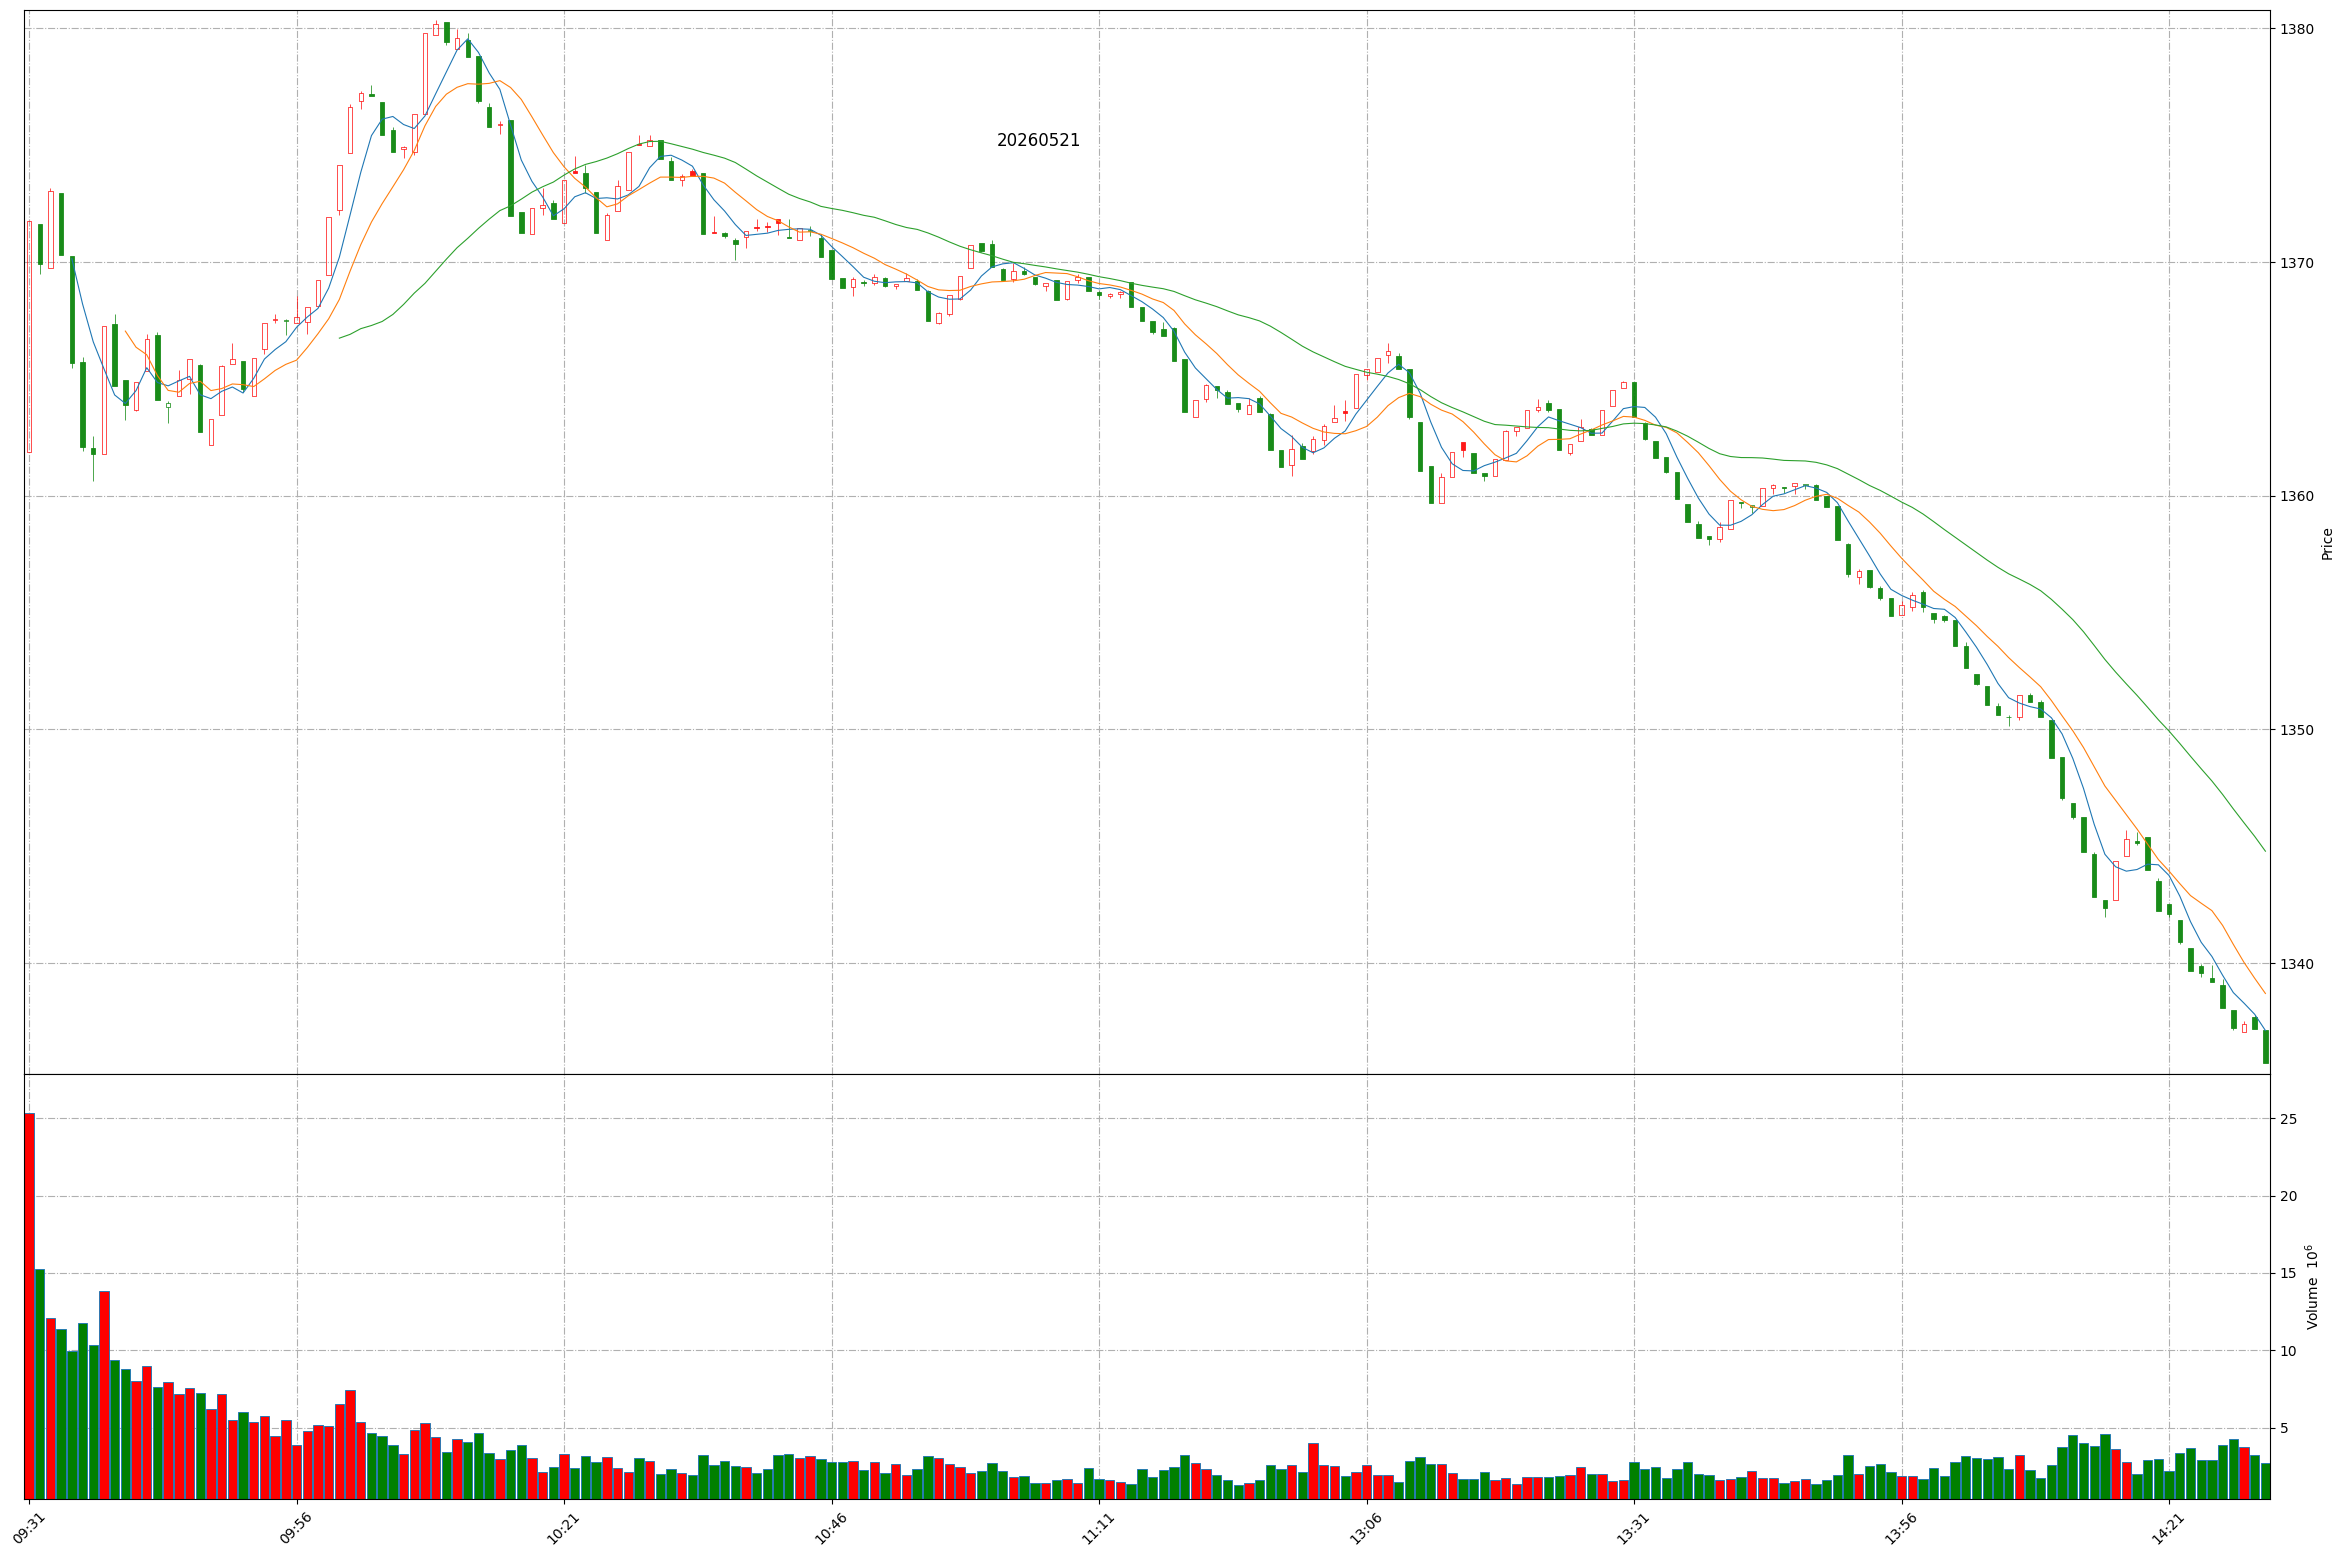
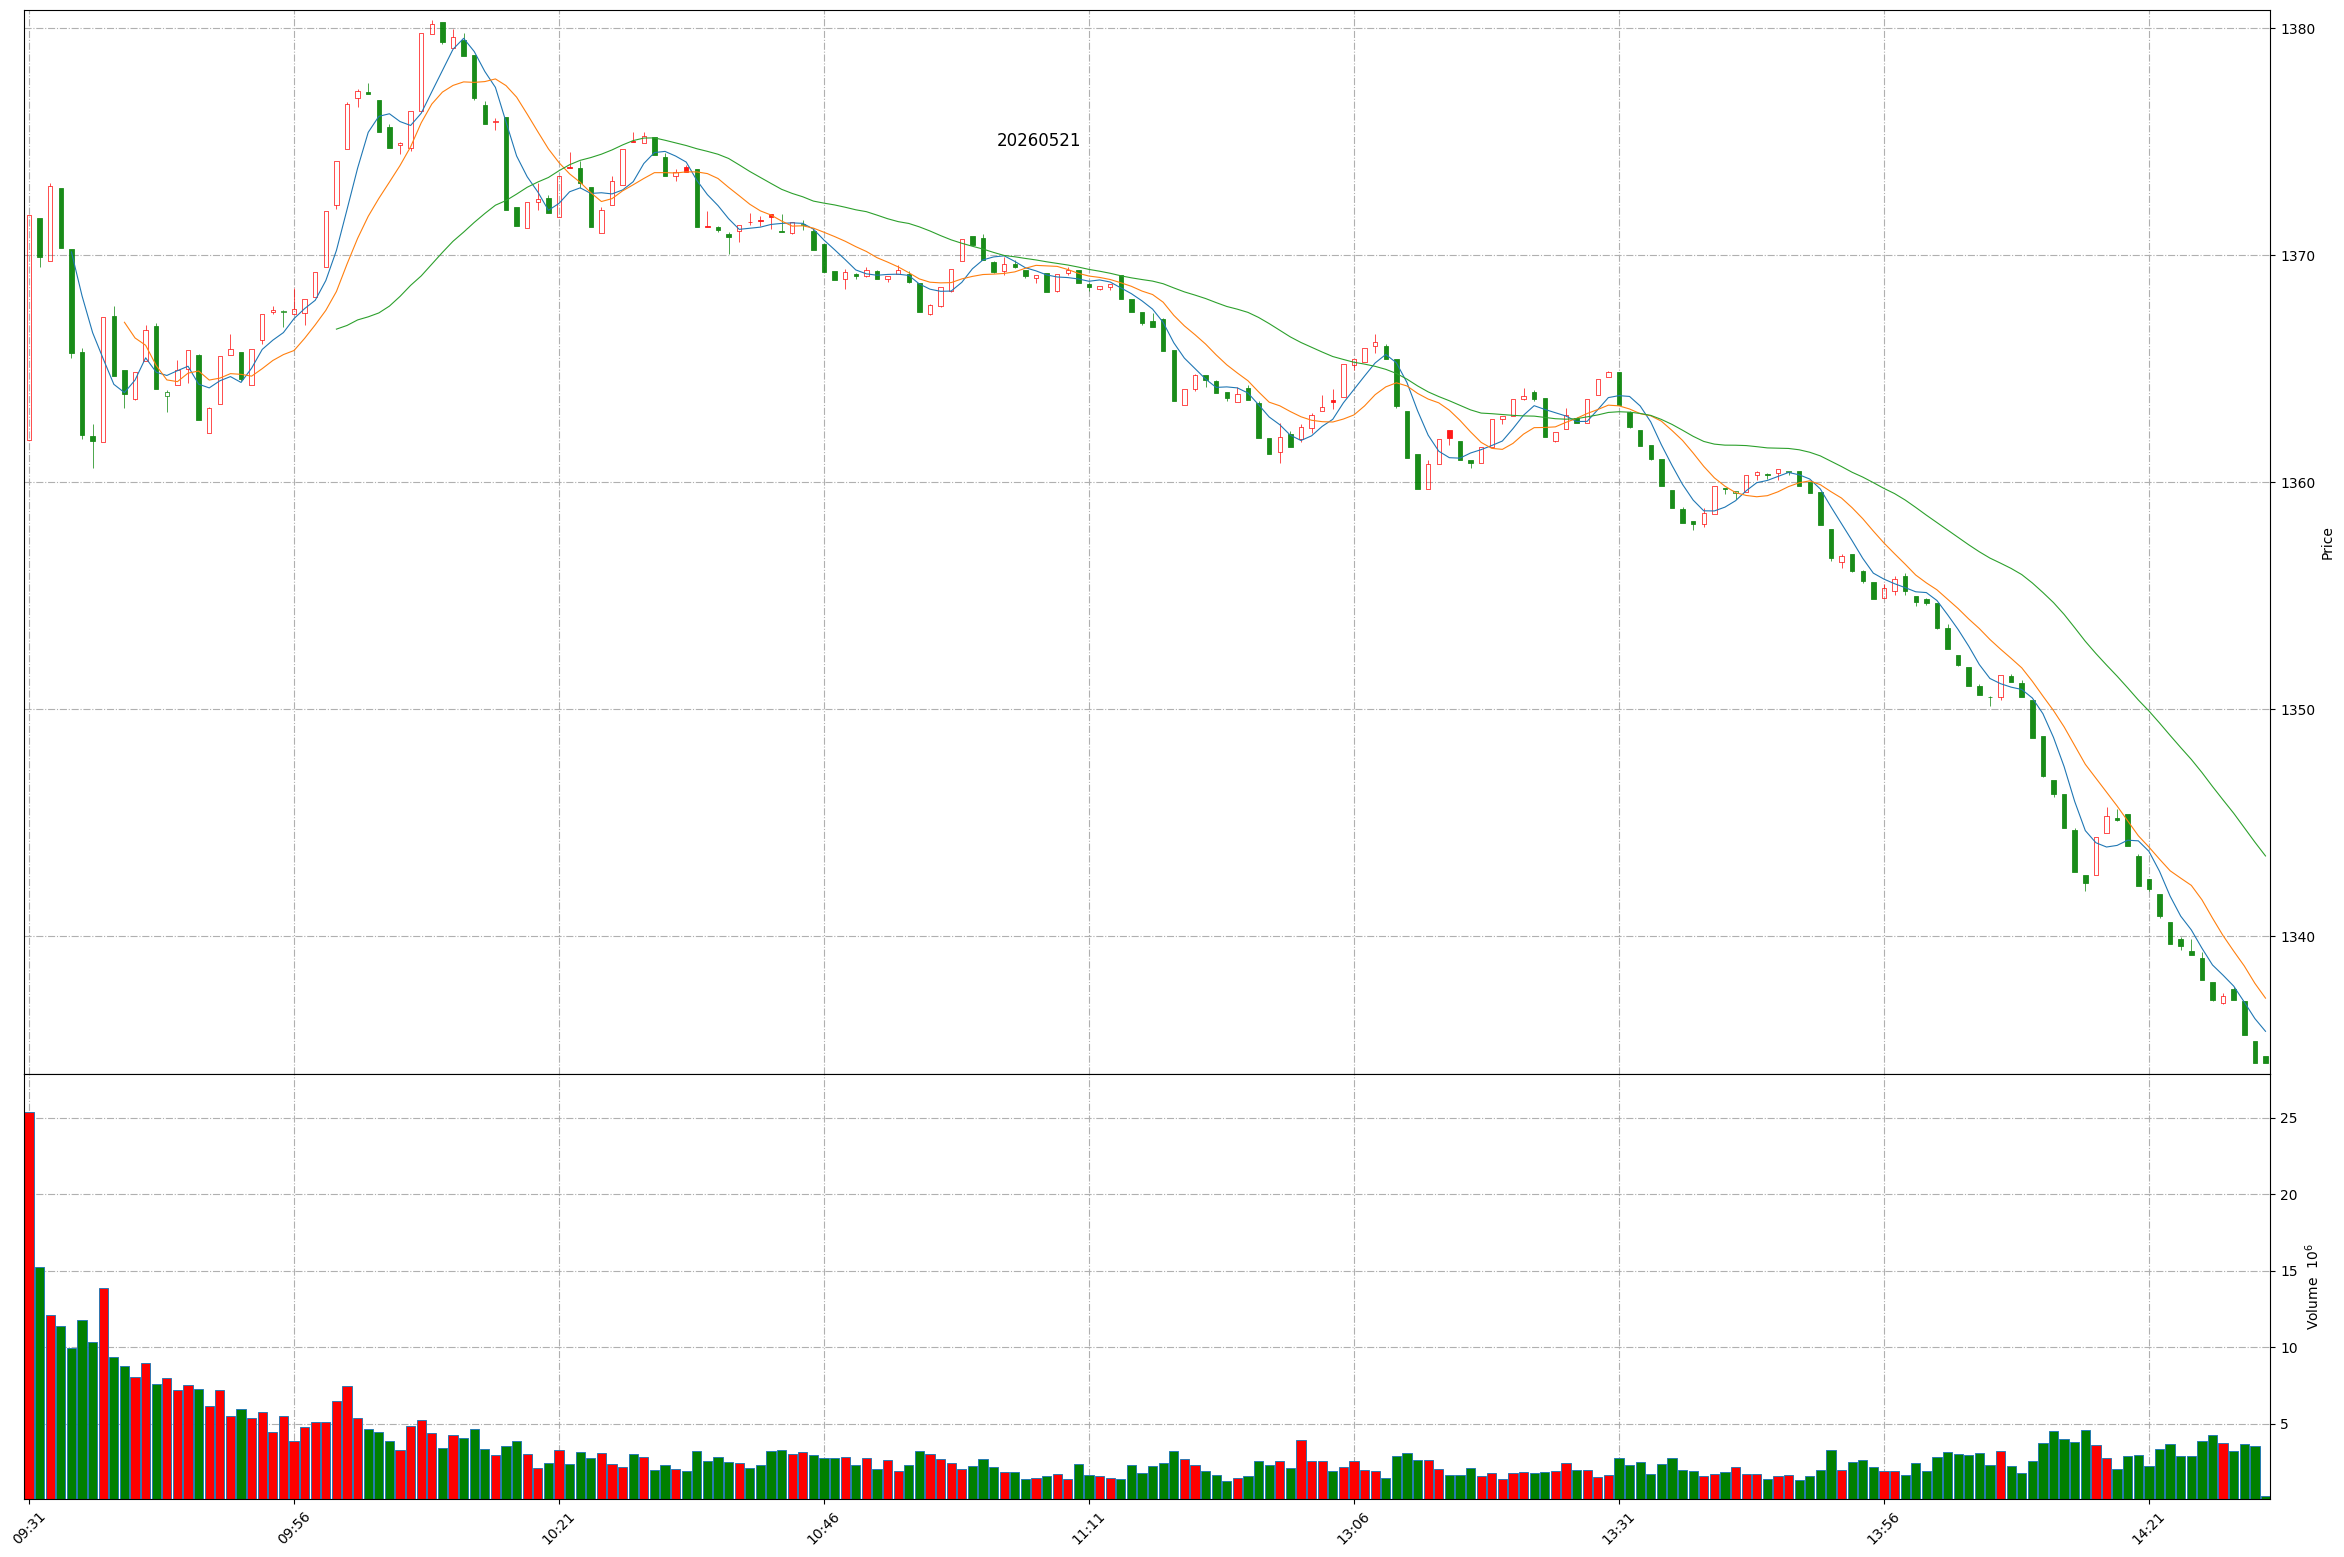
Github action update at 2026-05-21 14:31:13.

diff --git a/README.md b/README.md
@@ -1,11 +1,11 @@
 
 # Daily-A-share-market-quotes 每日 A 股指数（5min 更新）- 20260521
 
-### 上证指数 20260521 14:29
+### 上证指数 20260521 14:31
 ![](./fig/2026/5/20260521-sh000001.png)
 
-### 深证成指 20260521 14:29
+### 深证成指 20260521 14:31
 ![](./fig/2026/5/20260521-sz399001.png)
 
-### 北证50 20260521 14:29
+### 北证50 20260521 14:31
 ![](./fig/2026/5/20260521-bj899050.png)
